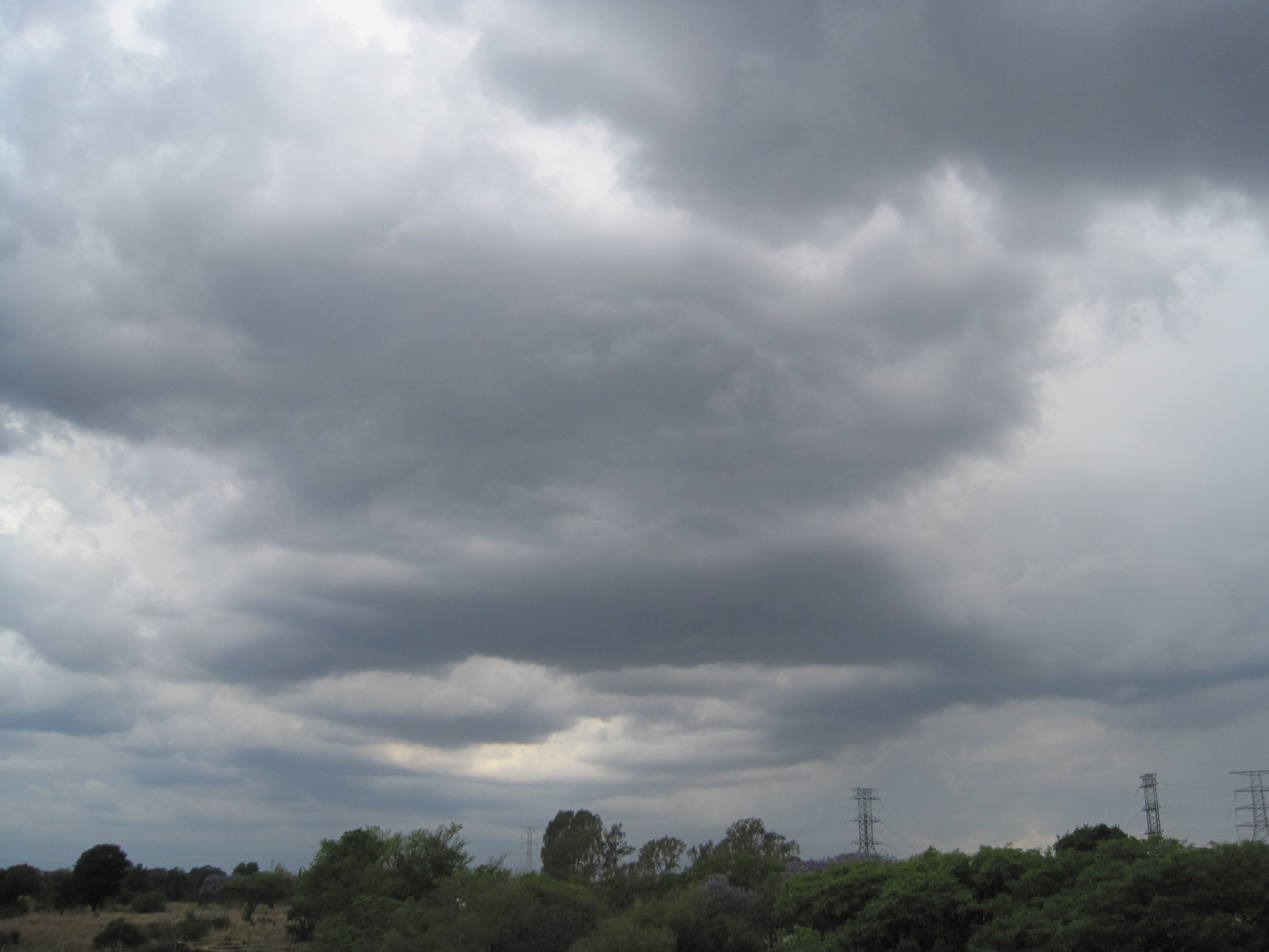
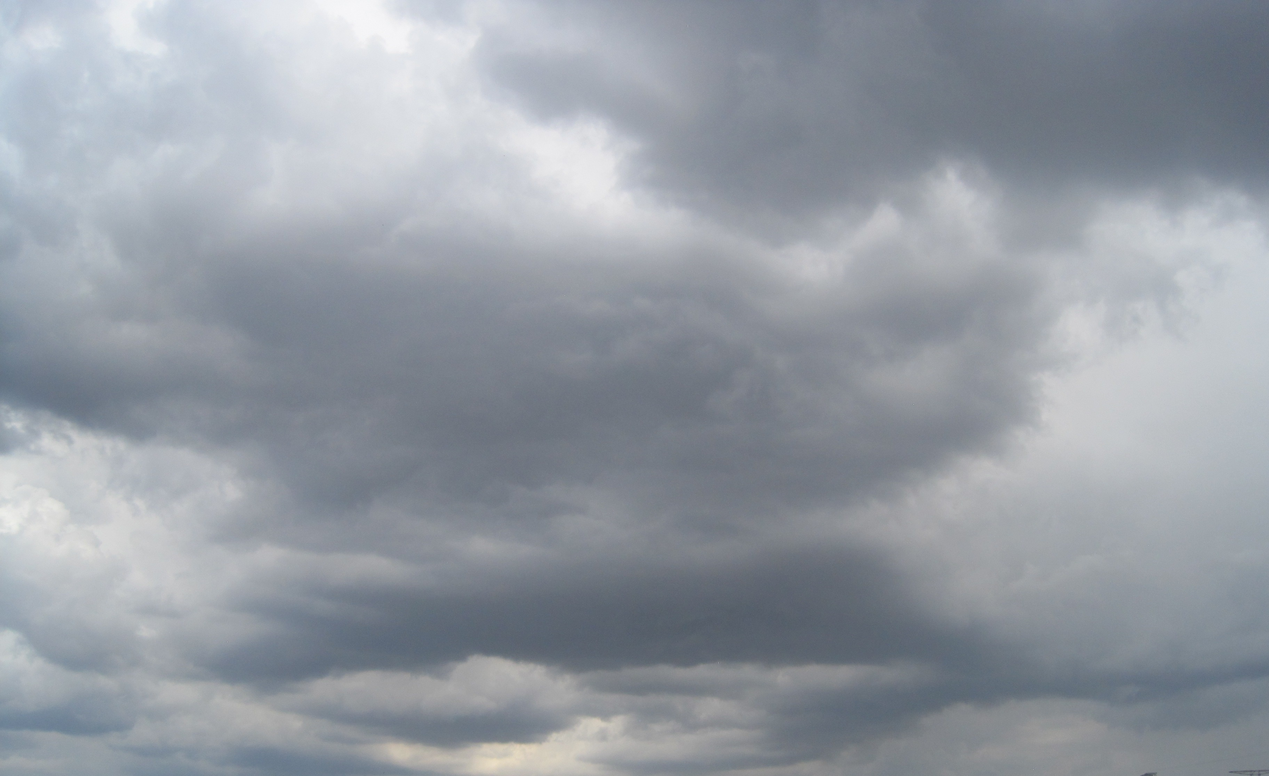
Backgrounds and a new post

diff --git a/project_posts/2014-02-15-Artistic-Thoughts-and-a-Googley-Crisis.md b/project_posts/2014-02-15-Artistic-Thoughts-and-a-Googley-Crisis.md
@@ -1,16 +1,6 @@
-So, the test was yesterday (actually, the day before that because it is now like 2:38) and it was quite good, thanks for asking.
+Some new things from today:
+I figured out I'll give the maps API more place and really try to imitate the natural geography of the user's area.
+I think it may create a cool result, a landscape that looks almost familiar yet machine-created.
+Added backgrounds and started working on tree modeling today. A first draft of a tree will probably be up until next week.
 
-Some things arrive with this post in one awesome update.
-So, I did some thinking about 3D modeling in java and tried some stuff. Also, finally got the technologies section to do what it should do.
-This update brings some code from both the 3D modeling and the sending-javascript-queries-in-order-to-determine-one's-location section (found under utils).
-My idea is that the model will change according to the country you are running this applet from, which can be really cool, IMO.
-
-I figured out I'll try and write some of my artistic thoughts about the project:
-I feel like music is becoming a part of my life which goes with me everywhere: on the bus, in the shower, while coding... But the more music I have in my life, the less I think of it as a special, immersing experience and more of a distraction.
-I feel like just listening to music has become quite hard for me - I can't be fully concentrated on it without any visual data.
-So, creating this visual data seemed like a reasonable choice for a project. I chose winter as a theme for this visualization because winter intuitively connects in my mind to life and to music, because there is so much motion and action in a winter scenery.
-I will try and make it, as I think of it, a natural way to continue musical data into a 3d scene - something like analytic continuation for music. A visual data to company the music and align with it perfectly, creating a more fulfilling experience while keeping the music in the center of the creation.
-
-In another subject, I still have a bit of a crisis as I really have no idea about how to use a google tool. I do use the Geocoding API but I feel like that's not enough.
-The compute engine and predict API cost money (for cloud storage at least) and I am not really good about having money, and I'll try to eventually create a google engine app, but I am not sure about how that will work because I think GAE doesn't support j3d.
-Also, I found many nice backgrounds to upload and thay will arrive soon to GitHub if all goes well.
+![backgrounds](../project_images/project_backgrounds.jpg?raw=true "skiesss")

diff --git a/project_posts/2014-02-16-Minor-Update.md b/project_posts/2014-02-16-Minor-Update.md
@@ -1,0 +1,16 @@
+So, the test was yesterday (actually, the day before that because it is now like 2:38) and it was quite good, thanks for asking.
+
+Some things arrive with this post in one awesome update.
+So, I did some thinking about 3D modeling in java and tried some stuff. Also, finally got the technologies section to do what it should do.
+This update brings some code from both the 3D modeling and the sending-javascript-queries-in-order-to-determine-one's-location section (found under utils).
+My idea is that the model will change according to the country you are running this applet from, which can be really cool, IMO.
+
+I figured out I'll try and write some of my artistic thoughts about the project:
+I feel like music is becoming a part of my life which goes with me everywhere: on the bus, in the shower, while coding... But the more music I have in my life, the less I think of it as a special, immersing experience and more of a distraction.
+I feel like just listening to music has become quite hard for me - I can't be fully concentrated on it without any visual data.
+So, creating this visual data seemed like a reasonable choice for a project. I chose winter as a theme for this visualization because winter intuitively connects in my mind to life and to music, because there is so much motion and action in a winter scenery.
+I will try and make it, as I think of it, a natural way to continue musical data into a 3d scene - something like analytic continuation for music. A visual data to company the music and align with it perfectly, creating a more fulfilling experience while keeping the music in the center of the creation.
+
+In another subject, I still have a bit of a crisis as I really have no idea about how to use a google tool. I do use the Geocoding API but I feel like that's not enough.
+The compute engine and predict API cost money (for cloud storage at least) and I am not really good about having money, and I'll try to eventually create a google engine app, but I am not sure about how that will work because I think GAE doesn't support j3d.
+Also, I found many nice backgrounds to upload and thay will arrive soon to GitHub if all goes well.
